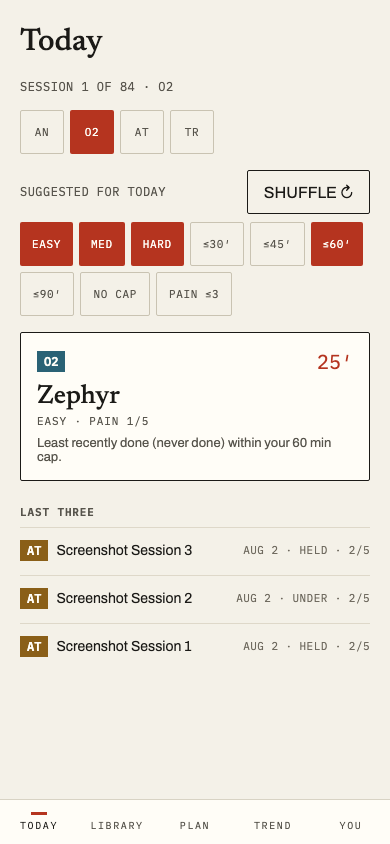
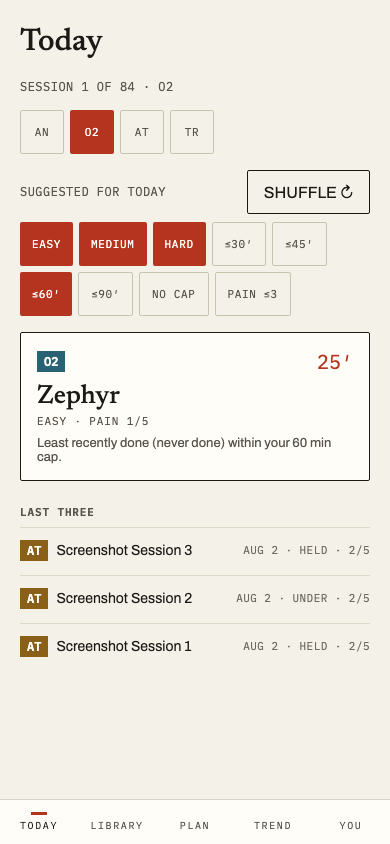
fix: MEDIUM like everywhere else; the chips get their row; the cap can't go stale
Today's difficulty chip now reads MEDIUM (DEVIATIONS.md row 12,
ClassificationCard.tsx's existing convention) instead of the brief's MED;
both screens now import one shared DIFFICULTY_CHIPS constant
(src/components/difficultyChips.ts) so the label can't drift apart again.
Added a DEVIATIONS.md row for the Today filter/type-swap chips this task
introduced, including why the cap chips' `≤NN′` upper-bound idiom differs
from the Library's own `<30′`/`30–45′` range buckets. Tightened
todayOverrides' capMinutes validation to the five real chip values
(30/45/60/90/null) instead of "any finite positive number", closing the
gap where a tampered/legacy record (e.g. 37) could load successfully and
leave zero cap chips active.

Claude-Session: https://claude.ai/code/session_01UEXqdgDid4Qjd8D5uoRZ3H

diff --git a/app/src/today/todayOverrides.ts b/app/src/today/todayOverrides.ts
@@ -28,6 +28,11 @@ export interface TodayOverrides {
 
 const TYPES: readonly WorkoutType[] = ["AN", "O2", "AT", "TR"];
 const DIFFICULTIES: readonly Difficulty[] = ["easy", "medium", "hard"];
+// The Today filter row's only five cap values (`≤30′ ≤45′ ≤60′ ≤90′ NO
+// CAP`) — shared between `parseOverrides`' validation below and `snapCap`
+// further down, so the two can never drift apart into "a value a stored
+// record is allowed to hold" vs. "a value a chip can actually represent".
+const CAP_STEPS = [30, 45, 60, 90] as const;
 
 function isWorkoutType(v: unknown): v is WorkoutType {
   return typeof v === "string" && (TYPES as readonly string[]).includes(v);
@@ -37,6 +42,10 @@ function isDifficulty(v: unknown): v is Difficulty {
   return (
     typeof v === "string" && (DIFFICULTIES as readonly string[]).includes(v)
   );
+}
+
+function isCapMinutes(v: unknown): v is number | null {
+  return v === null || (CAP_STEPS as readonly number[]).includes(v as number);
 }
 
 /** Strict shape check, same discipline as libraryFilters.ts's parseFilters
@@ -61,16 +70,7 @@ function parseOverrides(raw: string): TodayOverrides | null {
   if (!Array.isArray(o.difficulties) || !o.difficulties.every(isDifficulty)) {
     return null;
   }
-  if (
-    o.capMinutes !== null &&
-    !(
-      typeof o.capMinutes === "number" &&
-      Number.isFinite(o.capMinutes) &&
-      o.capMinutes > 0
-    )
-  ) {
-    return null;
-  }
+  if (!isCapMinutes(o.capMinutes)) return null;
   if (typeof o.painMax3 !== "boolean") return null;
   return {
     date: o.date,
@@ -127,8 +127,6 @@ export function saveTodayOverrides(o: TodayOverrides): void {
     // best-effort
   }
 }
-
-const CAP_STEPS = [30, 45, 60, 90] as const;
 
 /** Maps a raw preference cap to the nearest chip value: the smallest of
  *  30/45/60/90 that is >= pref, else null (NO CAP) once pref exceeds every

diff --git a/app/src/today/todayOverrides.test.ts b/app/src/today/todayOverrides.test.ts
@@ -113,7 +113,17 @@ describe("saveTodayOverrides / loadTodayOverrides", () => {
         JSON.stringify({ ...FULL, difficulties: ["extreme"] }),
       ],
       [
-        "capMinutes not a positive finite number",
+        // Validation accepts ONLY the five values a cap chip can actually
+        // render (30/45/60/90/null) — not merely "a positive finite
+        // number" — so a value that would leave zero cap chips active
+        // (the "exactly one is always active" invariant broken) can never
+        // survive a load. 37 is the review's own probe value: finite,
+        // positive, and still correctly rejected.
+        "capMinutes not one of the five chip values (e.g. 37)",
+        JSON.stringify({ ...FULL, capMinutes: 37 }),
+      ],
+      [
+        "capMinutes zero (not a chip value either)",
         JSON.stringify({ ...FULL, capMinutes: 0 }),
       ],
       ["capMinutes negative", JSON.stringify({ ...FULL, capMinutes: -30 })],
@@ -121,7 +131,8 @@ describe("saveTodayOverrides / loadTodayOverrides", () => {
         // JSON.stringify(Infinity) itself serialises to `null` (a VALID no-
         // cap value), so this has to hand-craft raw JSON text containing a
         // numeric literal that overflows to Infinity on parse (`1e400` is
-        // valid JSON syntax) to actually exercise the Number.isFinite guard.
+        // valid JSON syntax) to actually exercise the guard against a
+        // capMinutes value outside the five chip values.
         "capMinutes overflows to Infinity on parse (e.g. 1e400)",
         JSON.stringify(FULL).replace('"capMinutes":45', '"capMinutes":1e400'),
       ],

diff --git a/app/src/builder/ClassificationCard.tsx b/app/src/builder/ClassificationCard.tsx
@@ -1,5 +1,6 @@
 import type { Difficulty, WorkoutType } from "../../domain/types.js";
 import { PAIN_WORDS, TYPE_WORDS } from "./builderState";
+import { DIFFICULTY_CHIPS } from "../components/difficultyChips";
 
 // Chip order per docs/design/README.md §Screens -> "2. Library" (AN before
 // O2 — not alphabetical), matching src/library/FilterChips.tsx and
@@ -21,14 +22,6 @@ const TYPE_COLOR_VAR: Record<WorkoutType, string> = {
   AN: "--type-an",
   TR: "--type-tr",
 };
-
-// Difficulty reads EASY/MEDIUM/HARD (docs/design/DEVIATIONS.md), not the
-// handoff's Introductory/Moderate/Advanced.
-const DIFFICULTY_CHIPS: { value: Difficulty; label: string }[] = [
-  { value: "easy", label: "EASY" },
-  { value: "medium", label: "MEDIUM" },
-  { value: "hard", label: "HARD" },
-];
 
 const PAIN_LEVELS = [1, 2, 3, 4, 5] as const;
 type PainLevel = (typeof PAIN_LEVELS)[number];

diff --git a/app/src/today/Today.tsx b/app/src/today/Today.tsx
@@ -25,17 +25,12 @@ import {
   type TodayOverrides,
 } from "./todayOverrides";
 import TypeBadge from "../components/TypeBadge";
+import { DIFFICULTY_CHIPS } from "../components/difficultyChips";
 
 // Chip order per the task brief — AN before O2, matching Library's own
 // FilterChips.tsx (docs/design/README.md §Screens → "2. Library": not
 // alphabetical).
 const TYPE_CHIPS: WorkoutType[] = ["AN", "O2", "AT", "TR"];
-
-const DIFFICULTY_CHIPS: { value: Difficulty; label: string }[] = [
-  { value: "easy", label: "EASY" },
-  { value: "medium", label: "MED" },
-  { value: "hard", label: "HARD" },
-];
 
 // "≤NN′" — Library's own prime-mark idiom for minutes (FilterChips.tsx's
 // DURATION_CHIPS), applied here to an upper-bound cap rather than a range

diff --git a/app/src/components/difficultyChips.ts b/app/src/components/difficultyChips.ts
@@ -1,0 +1,13 @@
+import type { Difficulty } from "../../domain/types.js";
+
+// EASY/MEDIUM/HARD — docs/design/DEVIATIONS.md row 12's adaptation of the
+// handoff's Introductory/Moderate/Advanced. Shared by every screen that
+// renders a difficulty chip (ClassificationCard.tsx, Today.tsx) so the
+// three labels can only be spelled one way: the two screens used to keep
+// their own local `DIFFICULTY_CHIPS` copies, and they had already drifted
+// (Today's said "MED") before this module existed to prevent it.
+export const DIFFICULTY_CHIPS: { value: Difficulty; label: string }[] = [
+  { value: "easy", label: "EASY" },
+  { value: "medium", label: "MEDIUM" },
+  { value: "hard", label: "HARD" },
+];

diff --git a/app/src/today/Today.test.tsx b/app/src/today/Today.test.tsx
@@ -404,7 +404,7 @@ describe("Today (overrides: init from preferences)", () => {
       "aria-pressed",
       "true",
     );
-    expect(screen.getByRole("button", { name: "MED" })).toHaveAttribute(
+    expect(screen.getByRole("button", { name: "MEDIUM" })).toHaveAttribute(
       "aria-pressed",
       "true",
     );

diff --git a/docs/design/DEVIATIONS.md b/docs/design/DEVIATIONS.md
@@ -37,6 +37,7 @@ here. These are intentional product decisions (spec:
 | §7's own mock: a fixed two-slot `PACES LOCKED AT 2K 1:52.0 · 6K 2:02.0` line, always both bases | `LogSession.tsx`'s panel renders ONLY the bases the workout's own steps actually reference — one, both, or the panel omitted entirely (no bare dash) when neither is derivable | Phase 6C Task 2, whole-branch review (F1): checked against all 35 seeded starters and found the two-slot mock can never actually occur — 16 are 2k-only, 18 are 6k-only, and Microburst (all-effort) references neither, so a fixed two-slot layout would show a permanent, unconditional dash for one half on EVERY real session ever logged, violating the house "never a bare dash" rule this screen's own per-step list already honors. The two-slot form still renders for a workout that genuinely mixes both bases (a custom/bulk-imported one, pinned by a dedicated test) — it just isn't the universal case §7's own mock implies |
 | N/A — the handoff has no notion of a manual/off-app logging door at all; only the timer's own live-session flow (Countdown/Timer/SessionComplete/the Log screen's session door) ever hides the bottom tab bar | The manual door (`/library/:id/log`, `WorkoutDetail.tsx`'s "Log it after") deliberately leaves the tab bar visible, unlike the session door's own hidden bar for the identical `LogScreen` markup | Phase 6C Task 3, corrected by the whole-branch review (IMP-2): this row used to justify the difference by saying every other tab-bar-hidden screen has "an explicit in-screen way to leave without it (Cancel, END, Back to Today, and the session door's own staged Discard, respectively)" — WRONG about the session door specifically. Discard is destructive (it wipes the run/draft records), not a Cancel/END/Back-to-Today equivalent, so before the review's fix round the session door actually had NO non-destructive way to leave this screen at all while its tab bar was hidden. The real reason the two doors differ is narrower and still holds: the manual door touches no storage whatsoever (it never reads or writes the draft/run records, and nothing is staged server-side until a successful POST), so there is nothing an early exit could leave dangling and showing the tab bar costs it nothing — pinned by both a unit test (`AppRoutes.test.tsx`) and an e2e sweep (`e2e/design.spec.ts`, "the tab bar stays visible on this route, unlike the session door"). Both doors now also carry their own `BackLink` (IMP-2's actual fix, `LogSession.tsx`'s `LogScreen`/`backFallback`) on their main, ready-to-save state — a genuine non-destructive exit that exists independently of whichever way the tab bar renders |
 | N/A — the handoff has no notion of the browser's own UA `<button>` chrome interacting with a specced button height at all | Every `.button-primary` button in the app (`index.css`) renders roughly 6px taller than its own specced `min-height` (confirmed on `WorkoutDetail.tsx`'s own "Start": specs 52px, renders 58px) — neither the file's own `button` reset nor `.button-primary` itself resets the browser's default `<button>` chrome (Chromium's UA stylesheet: a ~2px outset border plus ~1px vertical padding per side), which `min-height`/`line-height` alone can't clamp below | Phase 6C Task 2 found the identical gap on `.log-save` (a `.button-primary` control with its own 54px spec, measured rendering at 60px) and fixed it there with `border: none; padding: 0` scoped to `.log-save` alone (`index.css`) — deliberately NOT applied to `.button-primary` app-wide, since that touches every screen sharing the class and is a bigger, more deliberate change than one task's own scope. Recorded here (whole-branch review, IMP-6) so the gap isn't silently rediscovered as a "new" bug on some other button later; fixing `.button-primary` itself, app-wide, remains a future phase's call, not this row's |
+| N/A — Today's own handoff section (`docs/design/README.md` §"1. Today") has no filter chips and no type-swap control at all; its `SWAP FOR ANOTHER [AT]` block is the `todayPick` pool-row list (SHUFFLE), a different control entirely | Two chip groups render beneath the plan line / suggestion header (`Today.tsx`): AN/O2/AT/TR type-swap chips, only under an active plan, that override the day's prescribed type before `suggest()` runs (tapping the chip matching the plan's own call un-swaps); and a filter row, in both plan and freestyle modes, of EASY/MEDIUM/HARD (multi-select), `≤30′ ≤45′ ≤60′ ≤90′ NO CAP` (single-select cap), and `PAIN ≤3` (toggle). The cap chips' `≤NN′` label is a deliberate departure from the Library's own duration-bucket chips (`<30′`/`30–45′`/`45–60′`/`60′+`, `FilterChips.tsx`'s `DURATION_CHIPS`): a cap is an upper bound on one value (everything at or under NN minutes), while a Library bucket names a range a workout's estimated duration falls into — different semantics get different label shapes rather than reusing the bucket format for a control that isn't bucketing anything | Task 2 (Today enhancements, post-6C): both groups are ephemeral, client-only overrides (`todayOverrides.ts`, `localStorage`, keyed the same `{date, planKey, doneN}` way as `todayPick.ts`'s own pick) layered on top of the server's own preferences (`SuggestPrefs`) without ever writing back to them — visible narrowing for a single day's suggestion, not a saved preference change. `snapCap` maps the stored preference cap to the nearest chip (smallest of 30/45/60/90 ≥ the preference, else NO CAP) so the chip row always has exactly one active chip on first load |
 
 Superseded by the builder redesign (`docs/design/builder-redesign/`, Phase
 5E): the permanently-expanded row list (`StepRowEditor.tsx`, deleted this
